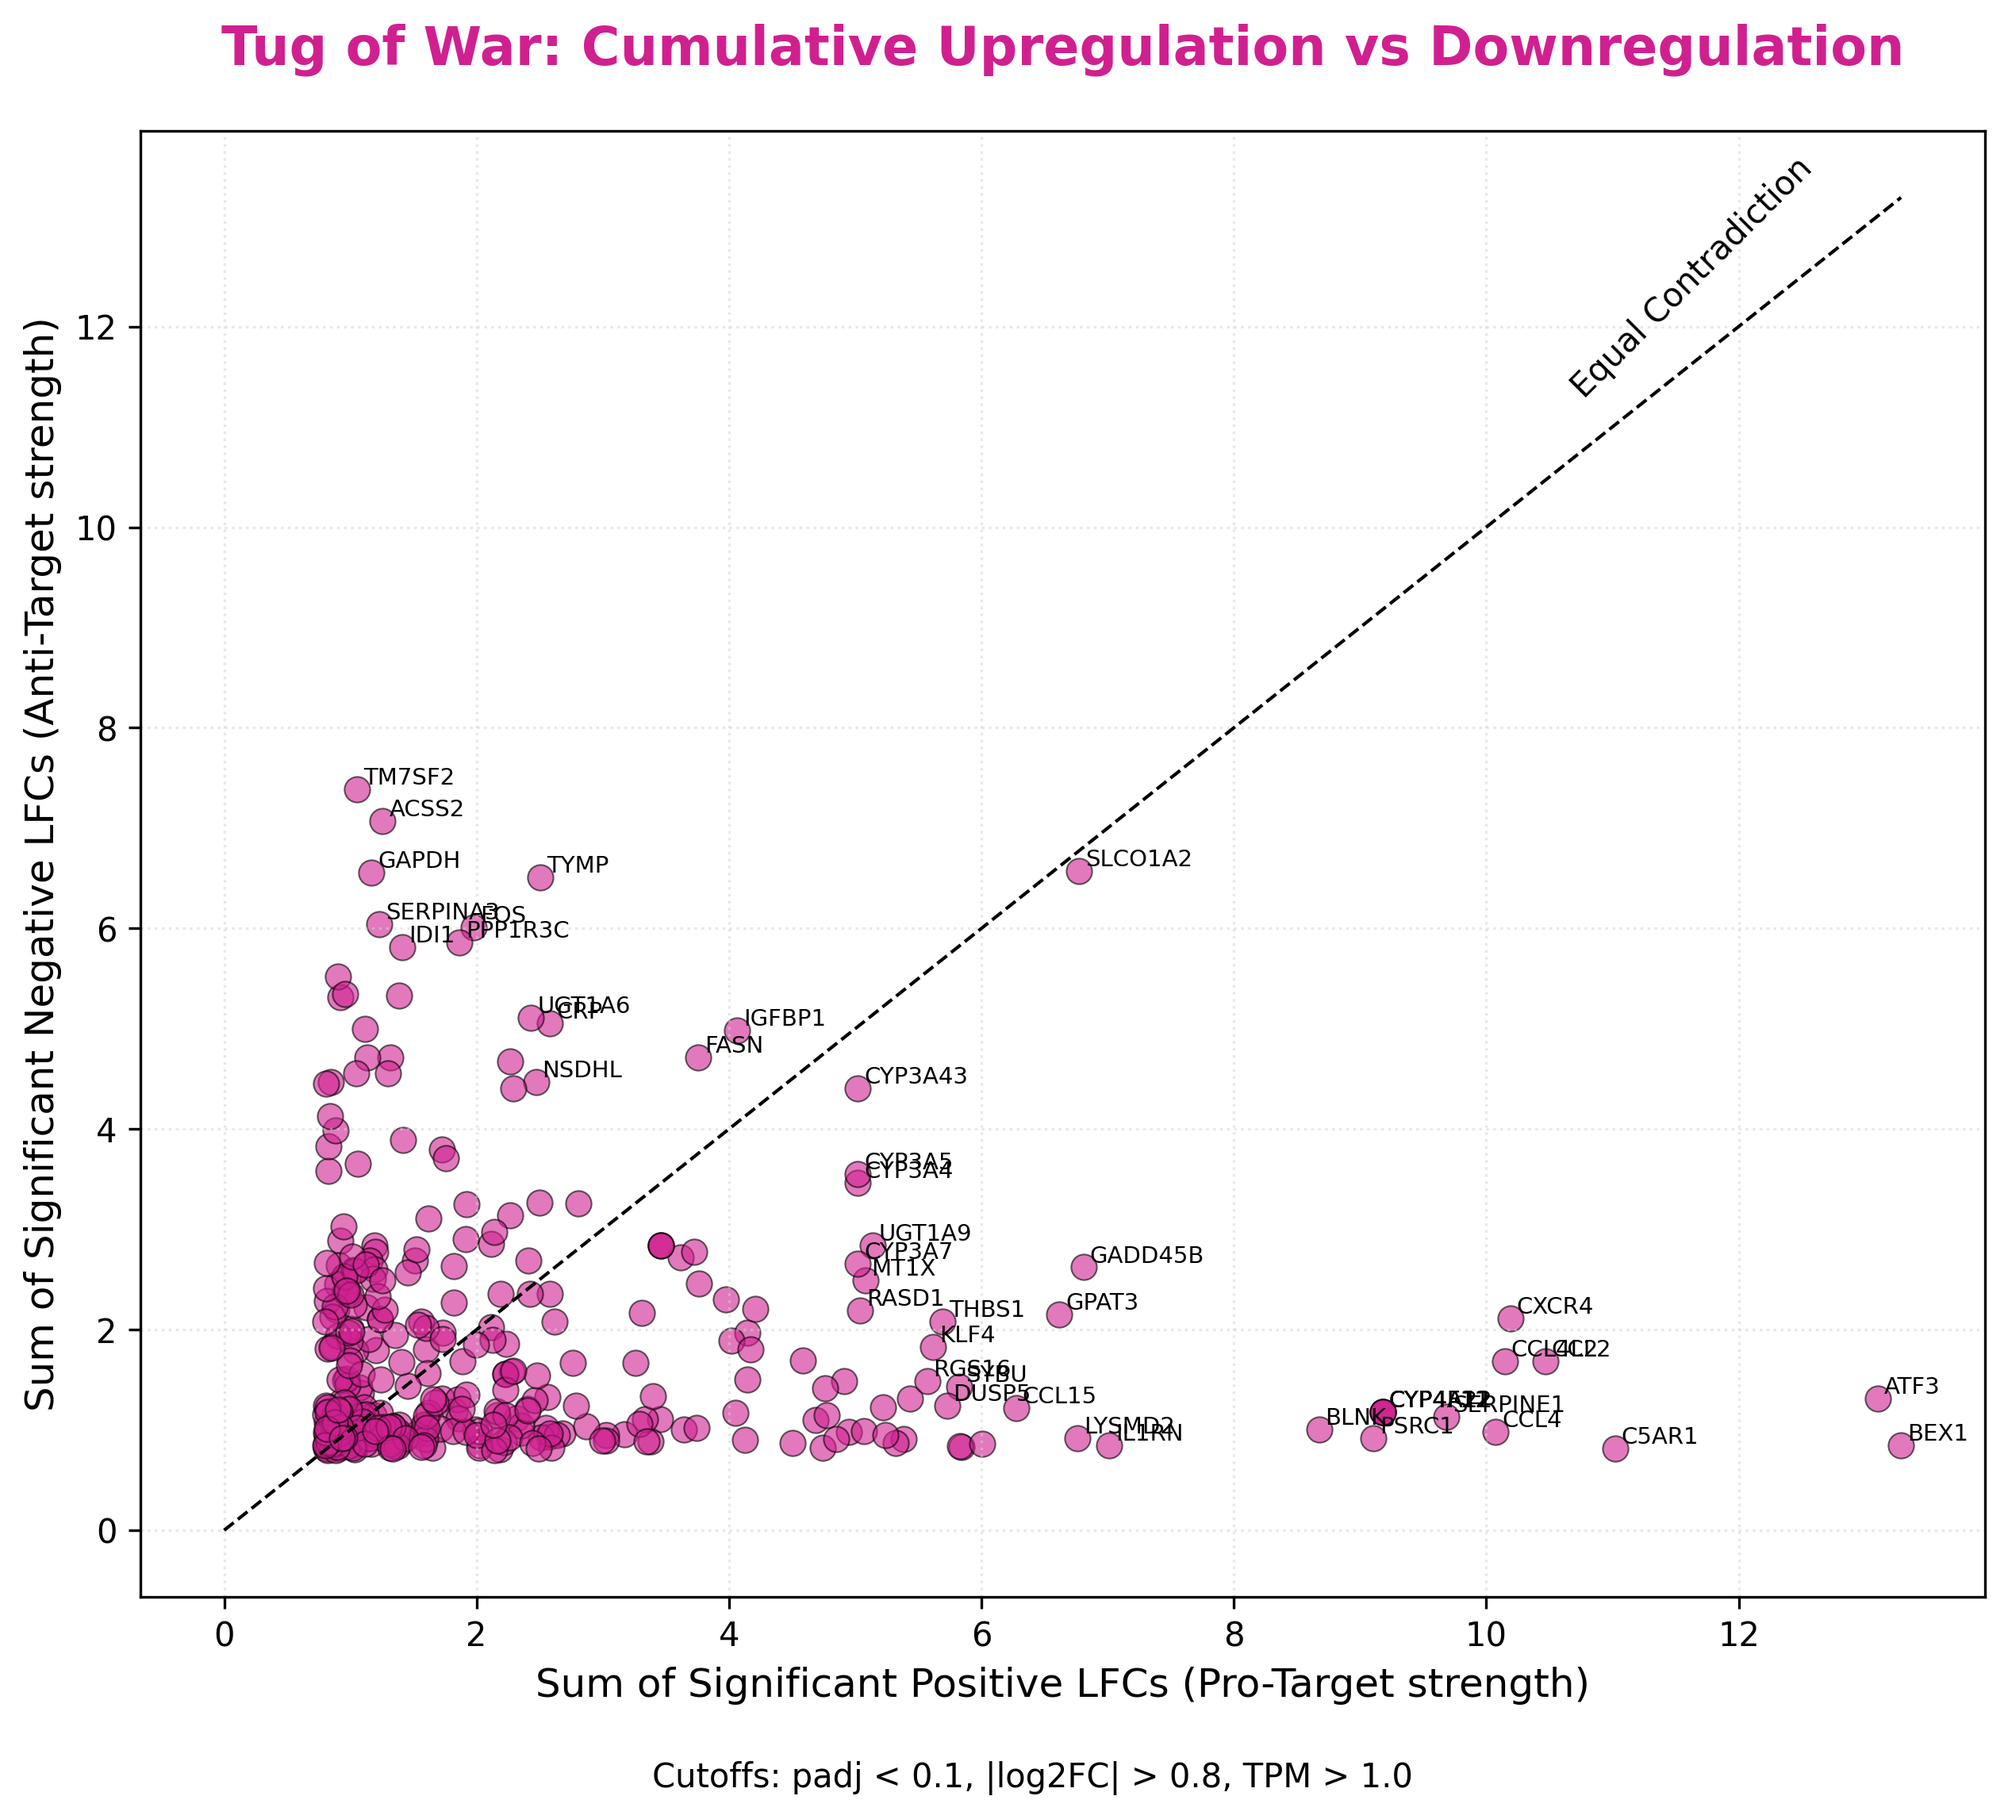
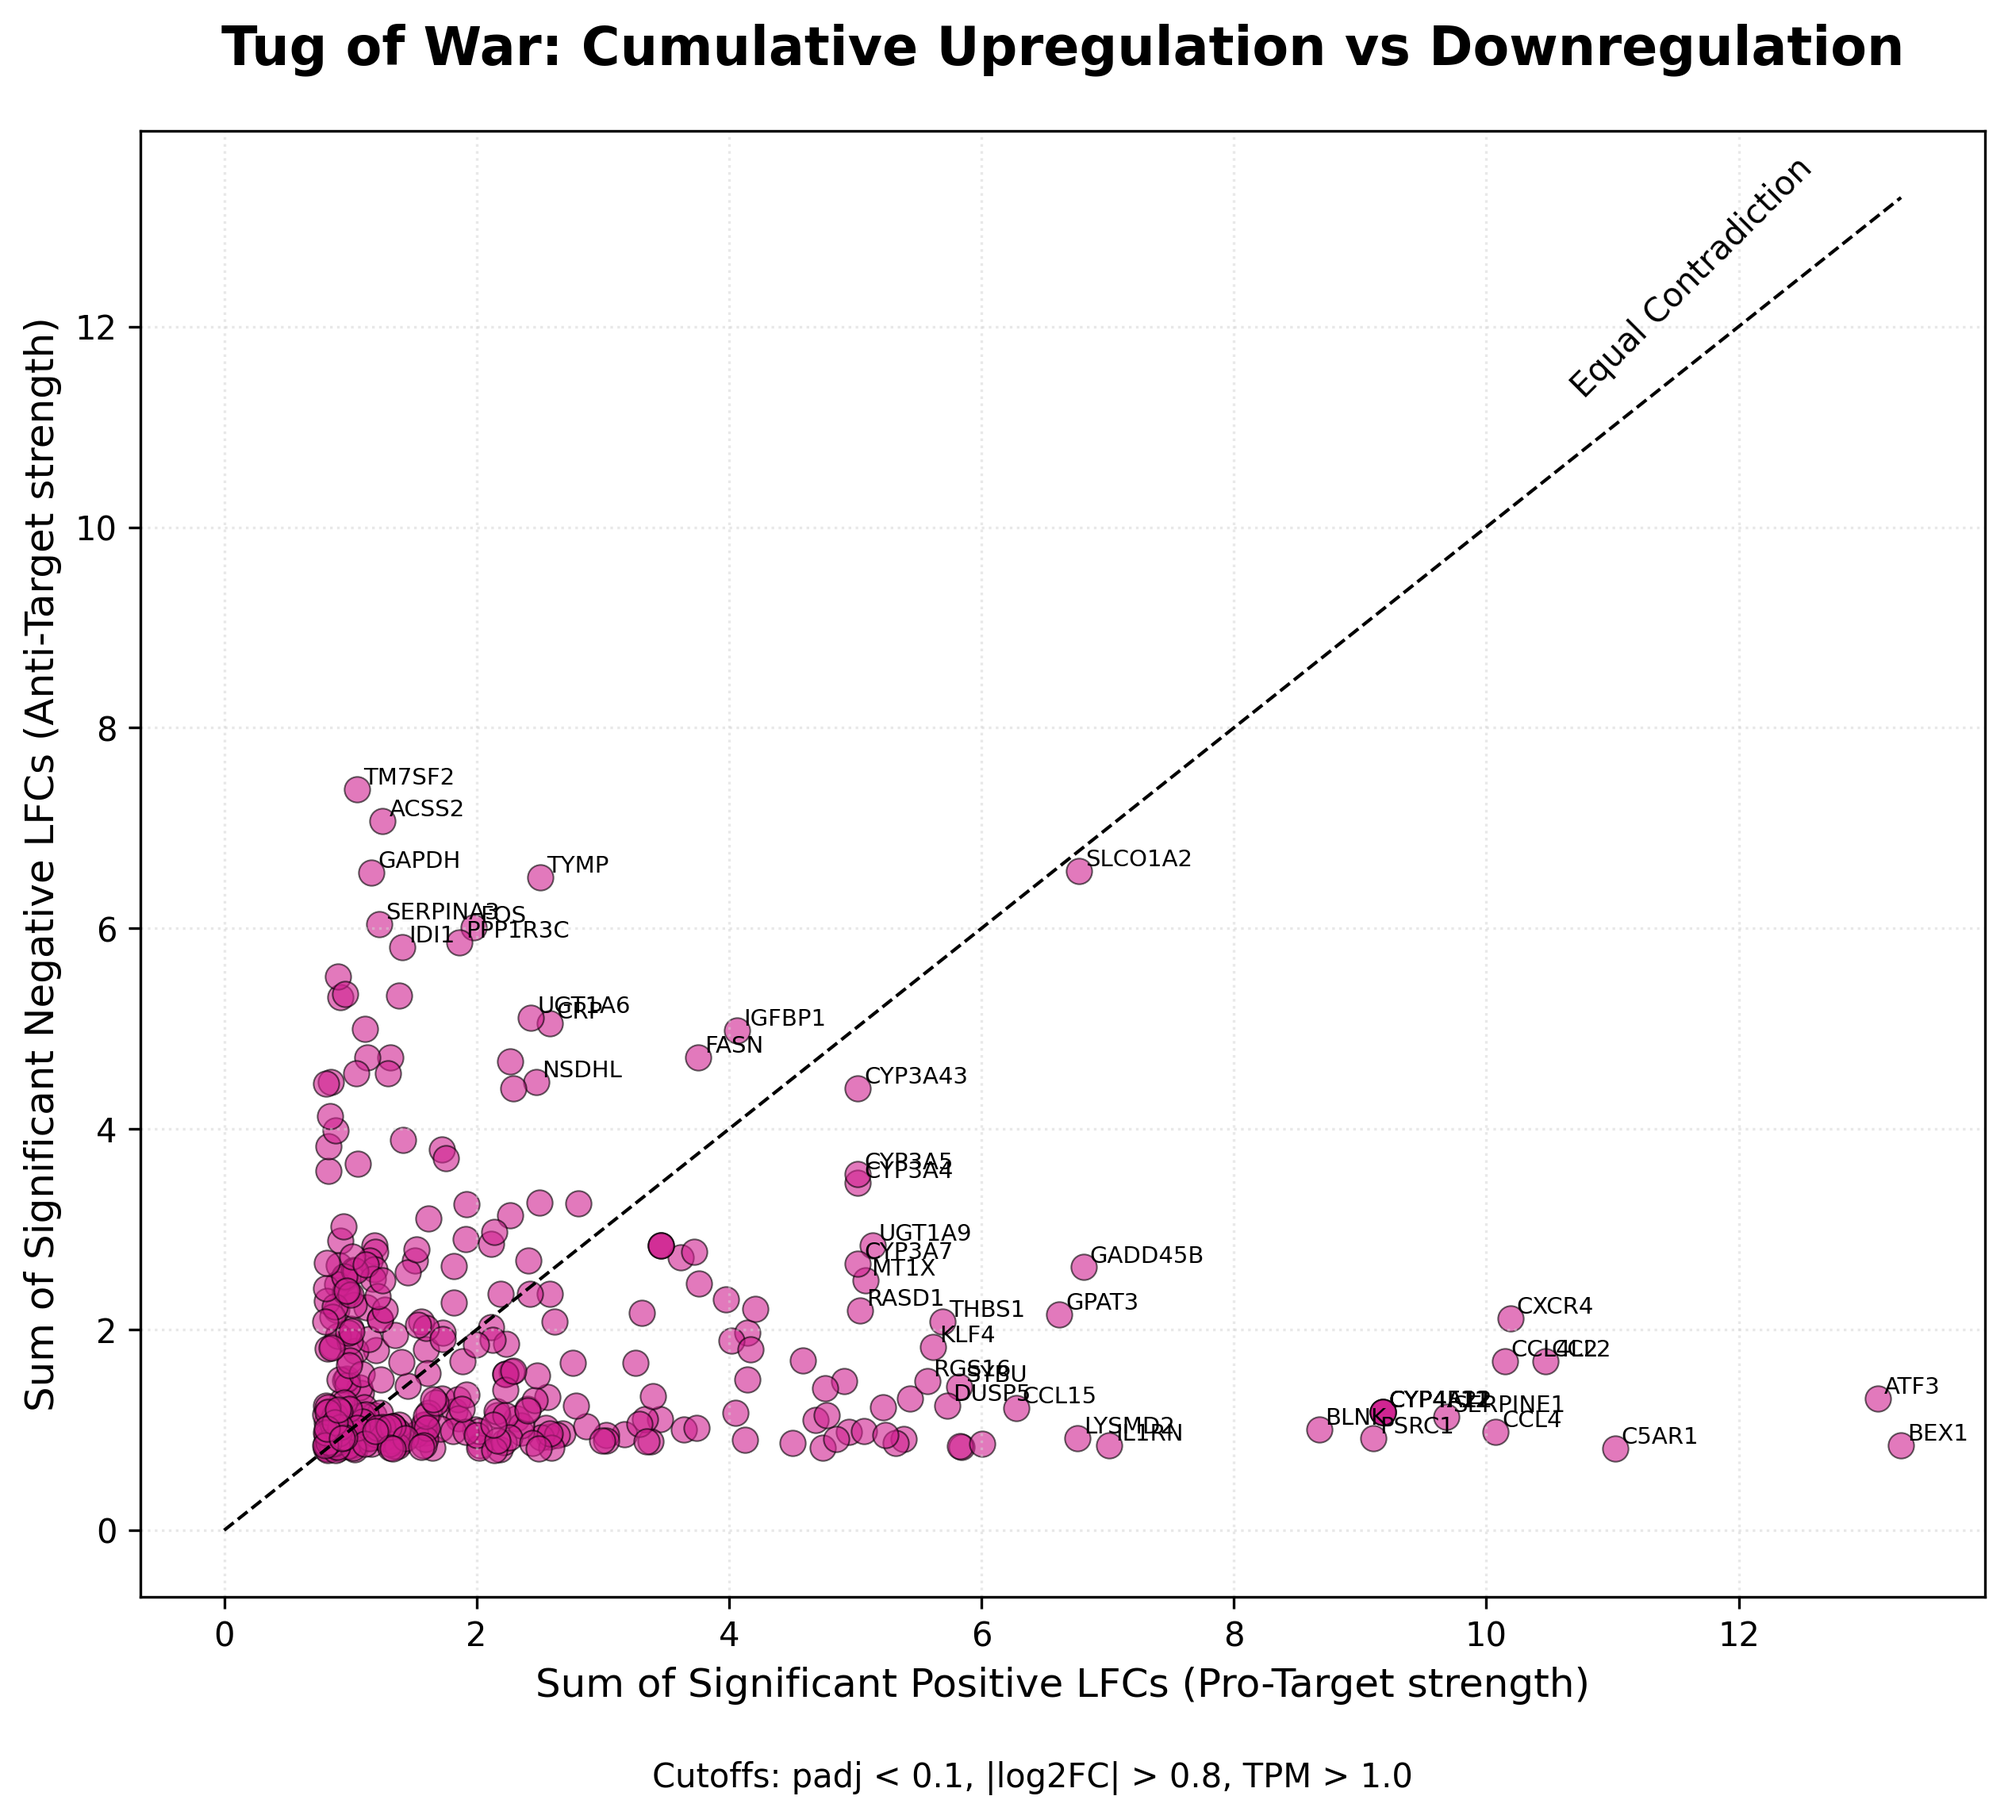
update

Changed region(s): [[0.0936, 0.0, 0.9364, 0.0619]]

diff --git a/discordance.py b/discordance.py
@@ -99,7 +99,7 @@ def plot_tug_of_war(df, note_text):
                 c=MAGENTA, alpha=0.6, edgecolors=TEXT_COLOR, s=60, linewidths=0.5)
     
     ax.set_title("Tug of War: Cumulative Upregulation vs Downregulation", 
-              fontsize=16, color=MAGENTA, fontweight="bold", pad=20)
+              fontsize=16, color=TEXT_COLOR, fontweight="bold", pad=20)
     ax.set_xlabel("Sum of Significant Positive LFCs (Pro-Target strength)", fontsize=12, color=TEXT_COLOR)
     ax.set_ylabel("Sum of Significant Negative LFCs (Anti-Target strength)", fontsize=12, color=TEXT_COLOR)
     
@@ -158,7 +158,7 @@ def plot_barcode_heatmap(df, note_text):
     ax.legend(handles=legend_elements, loc='center left', bbox_to_anchor=(1.01, 0.5), 
                frameon=False, labelcolor=TEXT_COLOR)
     
-    ax.set_title("Discordance Barcode: Top 100 Active Genes", fontsize=16, color=MAGENTA, fontweight="bold", pad=20)
+    ax.set_title("Discordance Barcode: Top 100 Active Genes", fontsize=16, color=TEXT_COLOR, fontweight="bold", pad=20)
     plt.setp(ax.get_xticklabels(), rotation=90, fontsize=8, color=TEXT_COLOR)
     plt.setp(ax.get_yticklabels(), rotation=0, fontsize=10, color=TEXT_COLOR)
     plt.subplots_adjust(bottom=0.3, right=0.85)
@@ -217,6 +217,6 @@ def plot_radar(df, candidates, title_text):
         ax.plot(angles, values, linewidth=2, linestyle='solid', label=row["Symbol"], color=c)
         ax.fill(angles, values, color=c, alpha=0.1)
 
-    plt.title(f"Radial LFC Profile: {title_text}", size=14, color=MAGENTA, y=1.1)
+    plt.title(f"Radial LFC Profile: {title_text}", size=14, color=TEXT_COLOR, y=1.1)
     plt.legend(loc='upper right', bbox_to_anchor=(0.1, 0.1), labelcolor=TEXT_COLOR)
     return fig

diff --git a/scripts/plot_contradictions.py b/scripts/plot_contradictions.py
@@ -48,7 +48,7 @@ def plot_tug_of_war(df):
     
     # Labels
     plt.title("Tug of War: Cumulative Upregulation vs Downregulation", 
-              fontsize=16, color=MAGENTA, fontweight="bold", pad=20)
+              fontsize=16, color=TEXT_COLOR, fontweight="bold", pad=20)
     plt.xlabel("Sum of Significant Positive LFCs (Pro-Target strength)", fontsize=12, color=TEXT_COLOR)
     plt.ylabel("Sum of Significant Negative LFCs (Anti-Target strength)", fontsize=12, color=TEXT_COLOR)
     
@@ -122,7 +122,7 @@ def plot_barcode_heatmap(df):
     plt.legend(handles=legend_elements, loc='center left', bbox_to_anchor=(1.01, 0.5), 
                frameon=False, labelcolor=TEXT_COLOR)
     
-    plt.title("Discordance Barcode: Top 100 Active Genes", fontsize=16, color=MAGENTA, fontweight="bold", pad=20)
+    plt.title("Discordance Barcode: Top 100 Active Genes", fontsize=16, color=TEXT_COLOR, fontweight="bold", pad=20)
     plt.xticks(color=TEXT_COLOR, rotation=90, fontsize=8) 
     plt.yticks(color=TEXT_COLOR, rotation=0, fontsize=10)
     
@@ -184,7 +184,7 @@ def plot_radar(df, candidates, title_text, filename):
         ax.plot(angles, values, linewidth=2, linestyle='solid', label=row["Symbol"], color=c)
         ax.fill(angles, values, color=c, alpha=0.1)
 
-    plt.title(f"Radial LFC Profile: {title_text}", size=20, color=MAGENTA, y=1.1)
+    plt.title(f"Radial LFC Profile: {title_text}", size=20, color=TEXT_COLOR, y=1.1)
 
     plt.legend(loc='upper right', bbox_to_anchor=(0.1, 0.1), labelcolor=TEXT_COLOR)
     
